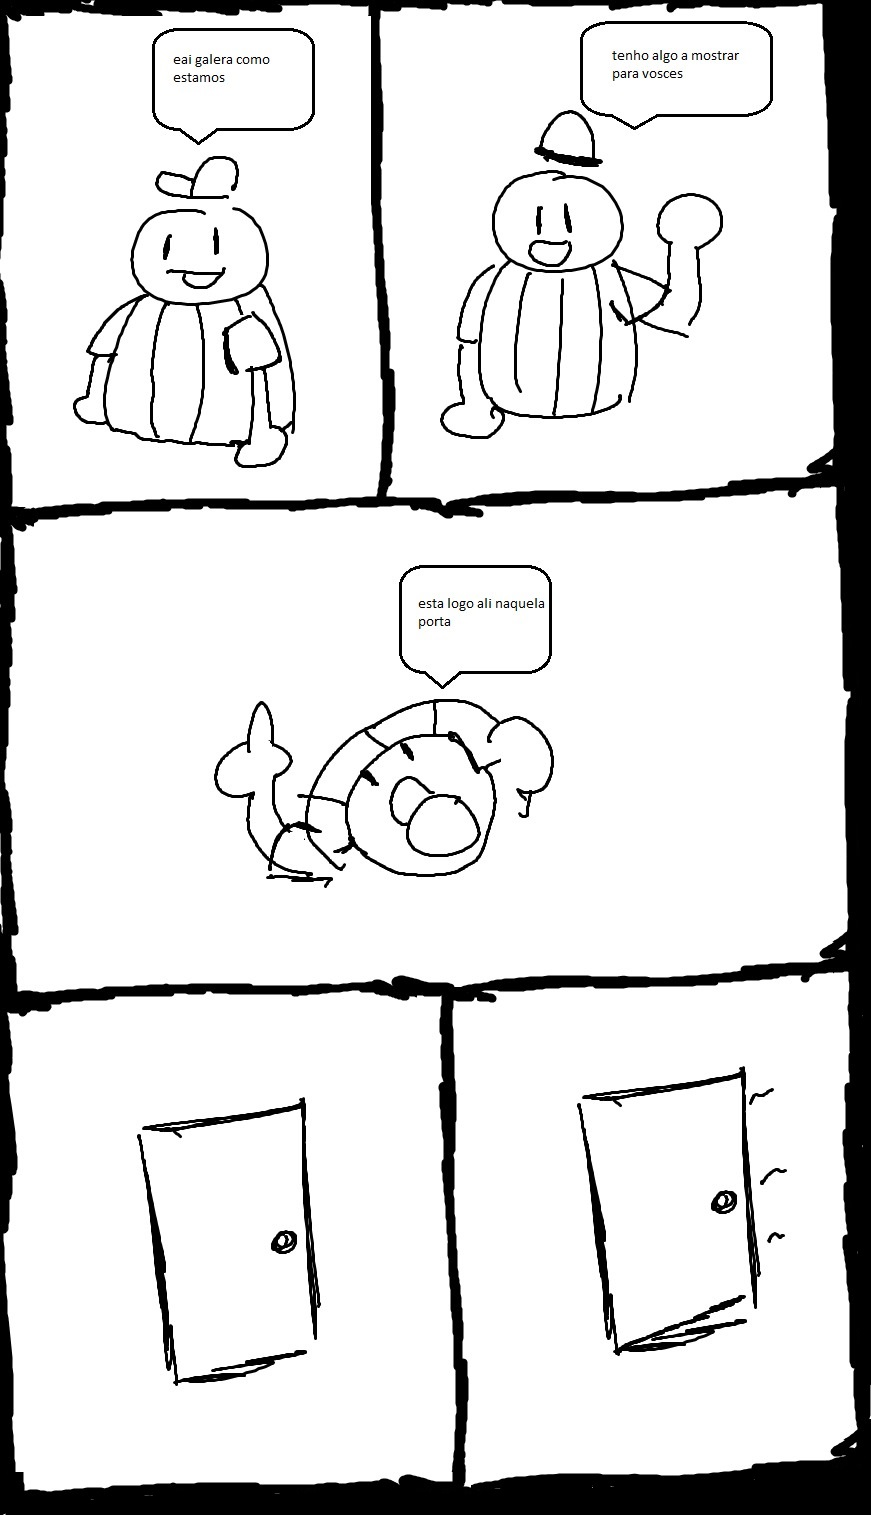
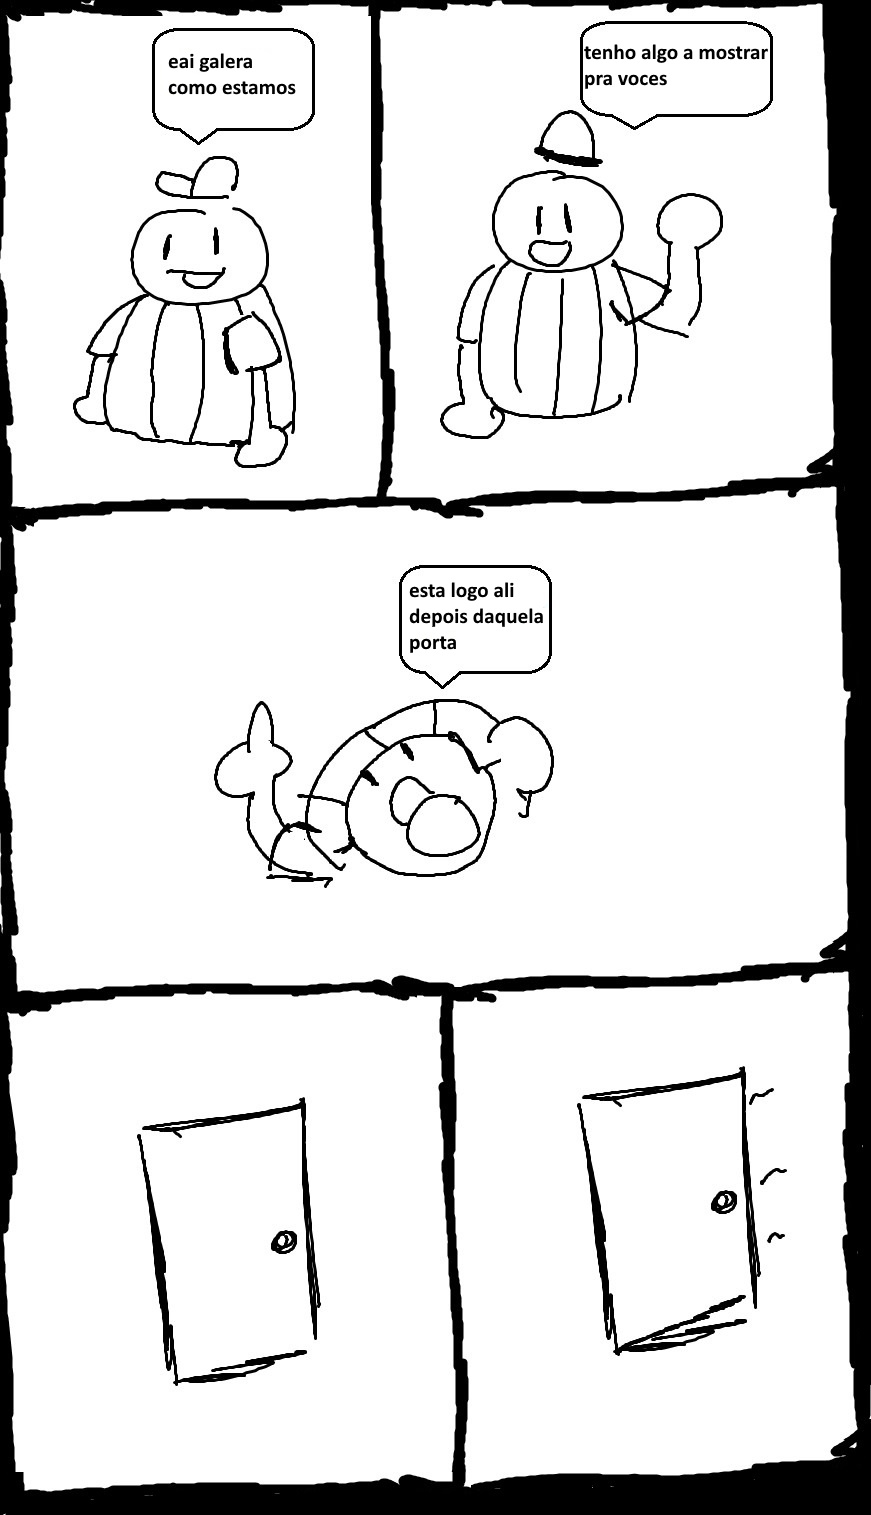
melhora prototipo 1

Changed region(s): [[0.465, 0.3723, 0.62, 0.4343], [0.651, 0.031, 0.868, 0.062], [0.186, 0.031, 0.341, 0.062]]

diff --git a/index.html b/index.html
@@ -13,6 +13,29 @@
         div:last-child {
             max-width: 400px;
         }
+
+        #aviso {
+            position: fixed;
+            left: 50%;
+            width: 300px;
+            margin-left: -150px;
+            bottom: 0;
+            z-index: 9999;
+            animation: shake 2s ease infinite, fadeAviso 1s ease forwards;
+        }
+
+        @keyframes fadeAviso {
+            0% { opacity: 0; }
+            20%, 80% { opacity: 1; }
+            100% { opacity: 0; }
+        }
+
+        @keyframes shake {
+            0%, 100% {transform: translateX(0);}
+            10%, 30%, 50%, 70%, 90% {transform: translateX(-10px);}
+            20%, 40%, 60%, 80% {transform: translateX(10px);}
+        }
+
     </style>
 </head>
 <body>
@@ -42,14 +65,27 @@
         let executado = false;
 
         window.addEventListener("scroll", () => {
-            const chegouAoFinal =
-                window.innerHeight + window.scrollY >= document.documentElement.scrollHeight - 400;
+            let chegouAoFinal = 0;
+            if (window.innerWidth > 768) {
+                 chegouAoFinal = window.innerHeight + window.scrollY >= document.documentElement.scrollHeight - 200;
+            } else {
+                chegouAoFinal = window.innerHeight + window.scrollY >= document.documentElement.scrollHeight - 400;
+            }
 
             if (chegouAoFinal && !executado) {
                 executado = true;
 
                 document.querySelector(".a2").style.display = "none";
                 document.querySelector(".a2doMal").style.display = "block";
+
+                const aviso = document.createElement("img");
+                aviso.src = "imgs/01/aviso.png";
+                aviso.id = "aviso";
+                document.body.appendChild(aviso);
+
+                setTimeout(() => {
+                    aviso.style.display = "none";
+                }, 1000);
             }
         });
     </script>

diff --git a/pages/02.html b/pages/02.html
@@ -90,8 +90,15 @@
             position: absolute;
             display: none;
             width: 150px;
-            animation: gelatine 0.5s infinite;
+            animation: gelatine 0.5s infinite, fadeColetado 1s ease forwards;
         }
+
+        @keyframes fadeColetado {
+            0% { opacity: 0; }
+            20%, 80% { opacity: 1; }
+            100% { opacity: 0; }
+        }
+
         @keyframes gelatine {
             from, to { transform: scale(1, 1); }
             25% { transform: scale(0.9, 1.1); }
@@ -133,11 +140,10 @@
                 coletado.classList.add("coletado");
                 coletado.src = "../imgs/02/coletado.png";
                 document.body.appendChild(coletado);
-                
+
                 coletado.style.display = "block";
                 coletado.style.left = `${(posicao.left + window.scrollX)-30}px`;
                 coletado.style.top = `${posicao.top + window.scrollY}px`;
-
                 
                 setTimeout(() => {
                     coletado.style.display = "none";
